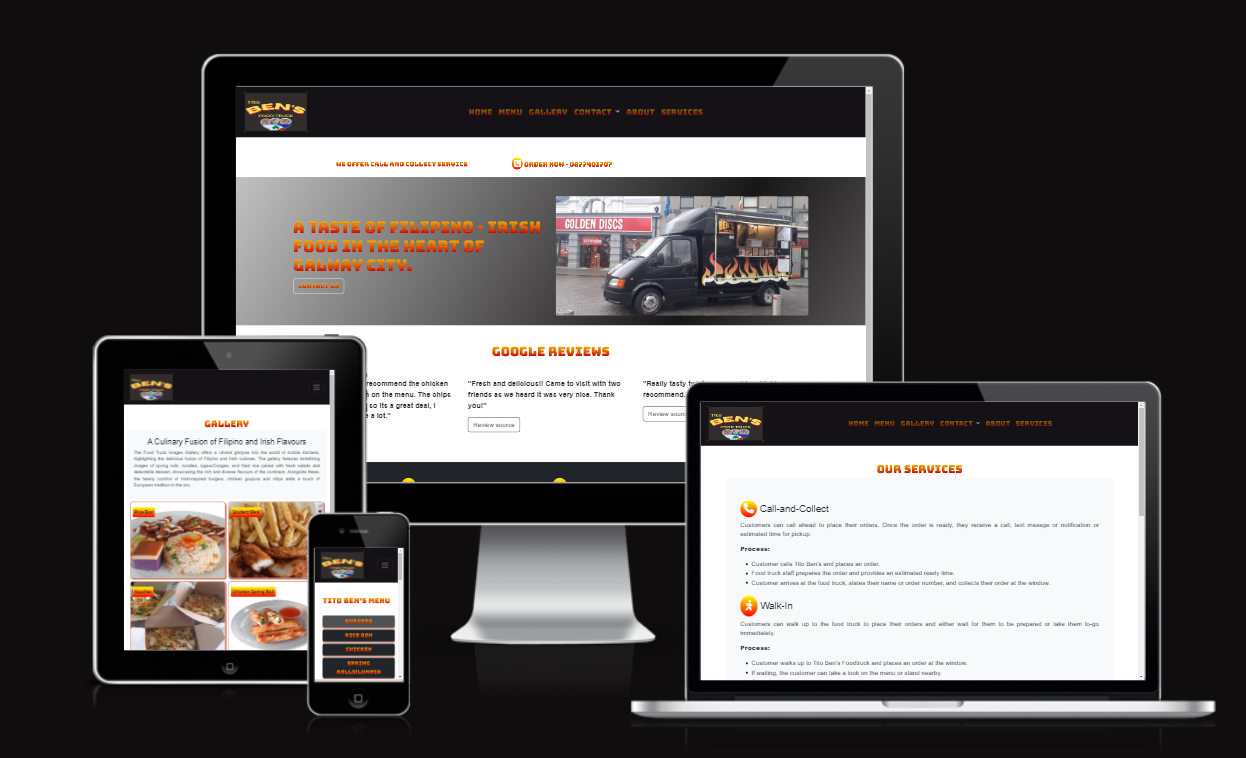
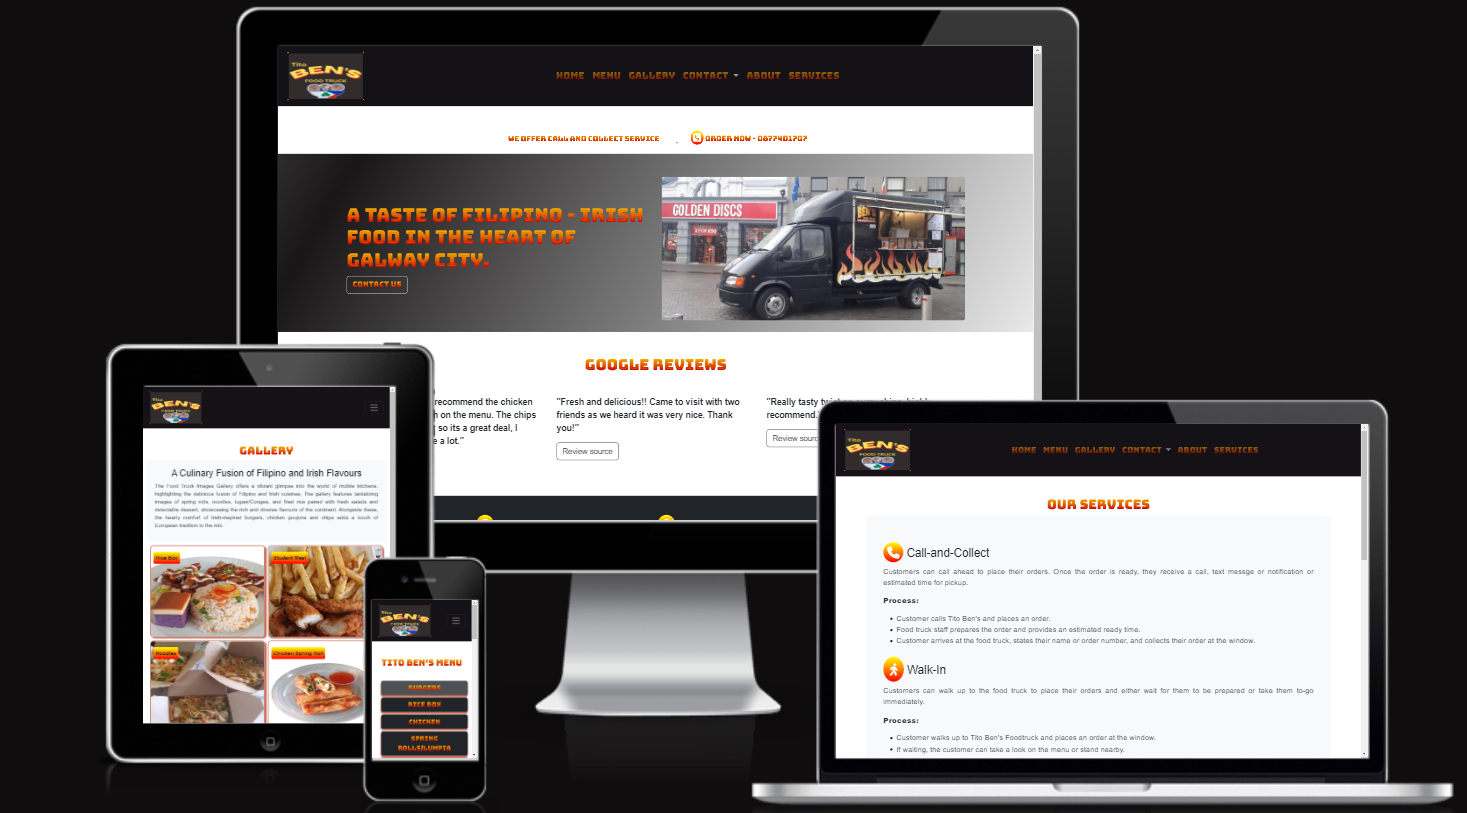
update link and screenshot

diff --git a/README.md b/README.md
@@ -1,5 +1,5 @@
 # Tito Ben's Food Truck
 
-This website is created to increase the visibility of Tito Ben's Food truck business in the heart of Galway City. Currently, Tito Ben's is selling Irish-Filipino food for takeaways only. Information on how to order are explain in the [services page](services.html).
+This website is created to increase the visibility of Tito Ben's Food truck business in the heart of Galway City. Currently, Tito Ben's is selling Irish-Filipino food for takeaways only. Information on how to order are explain in the [services page](https://markpm-code.github.io/Bens_food_truck/services.html).
 
 ![Screenshot of a the responsive design](./assets/images/tito-bens-responsive.png)
